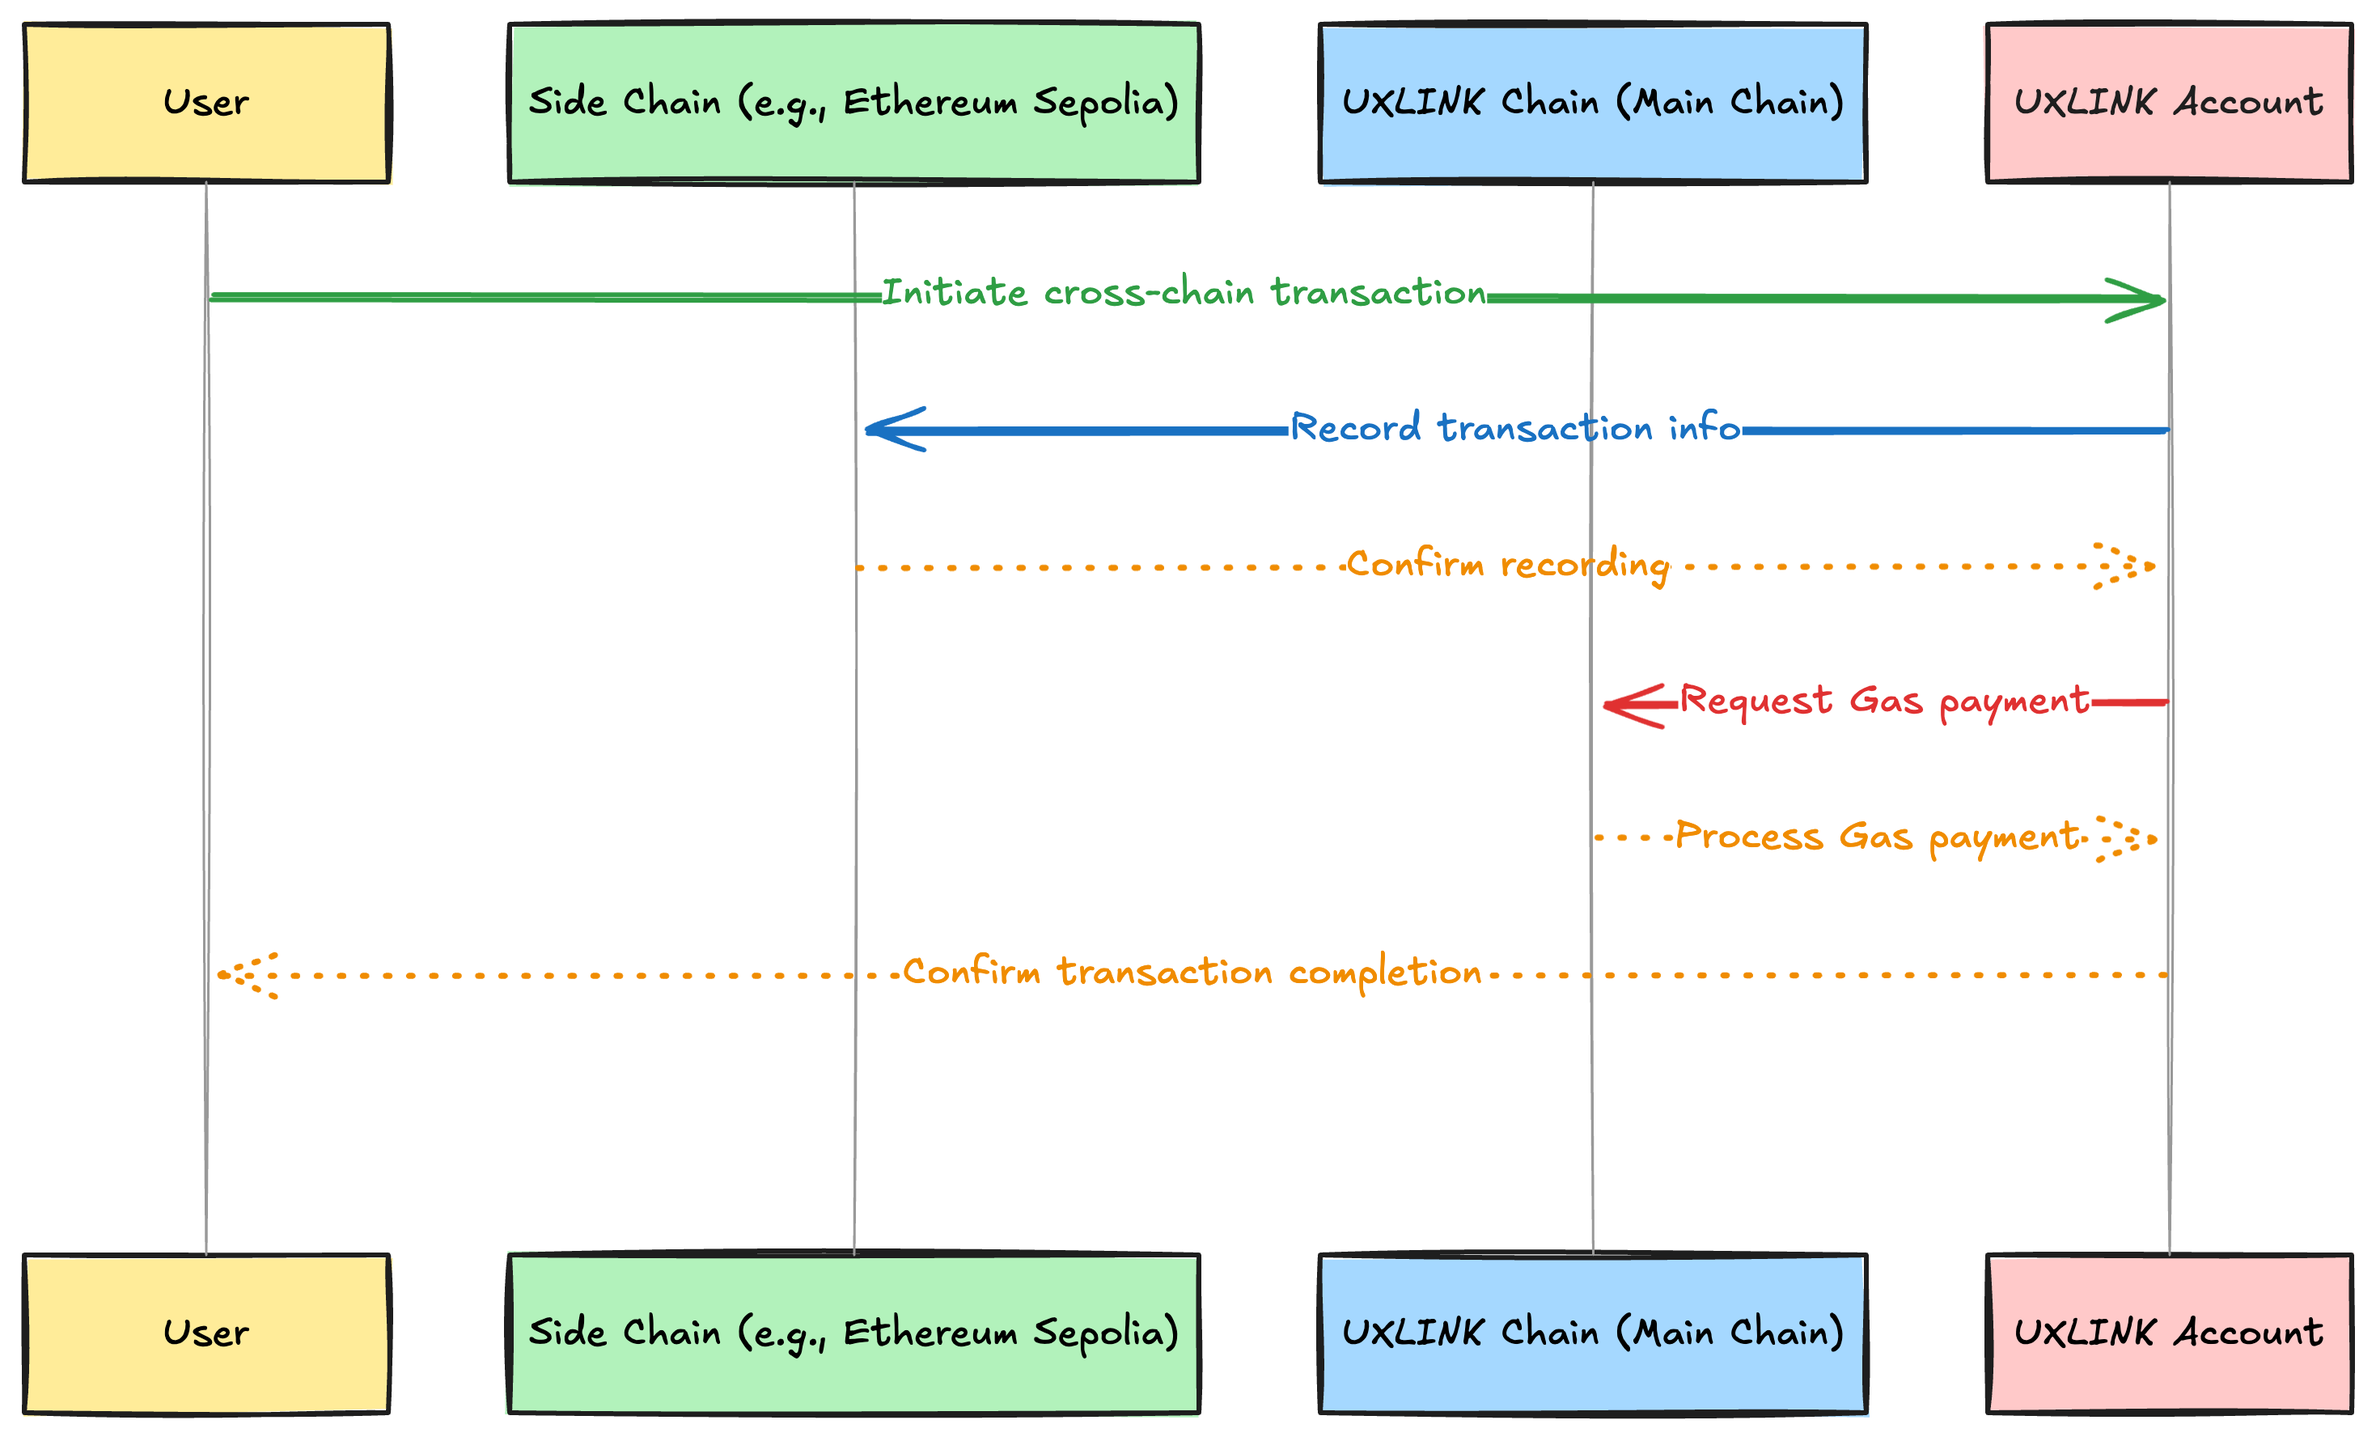
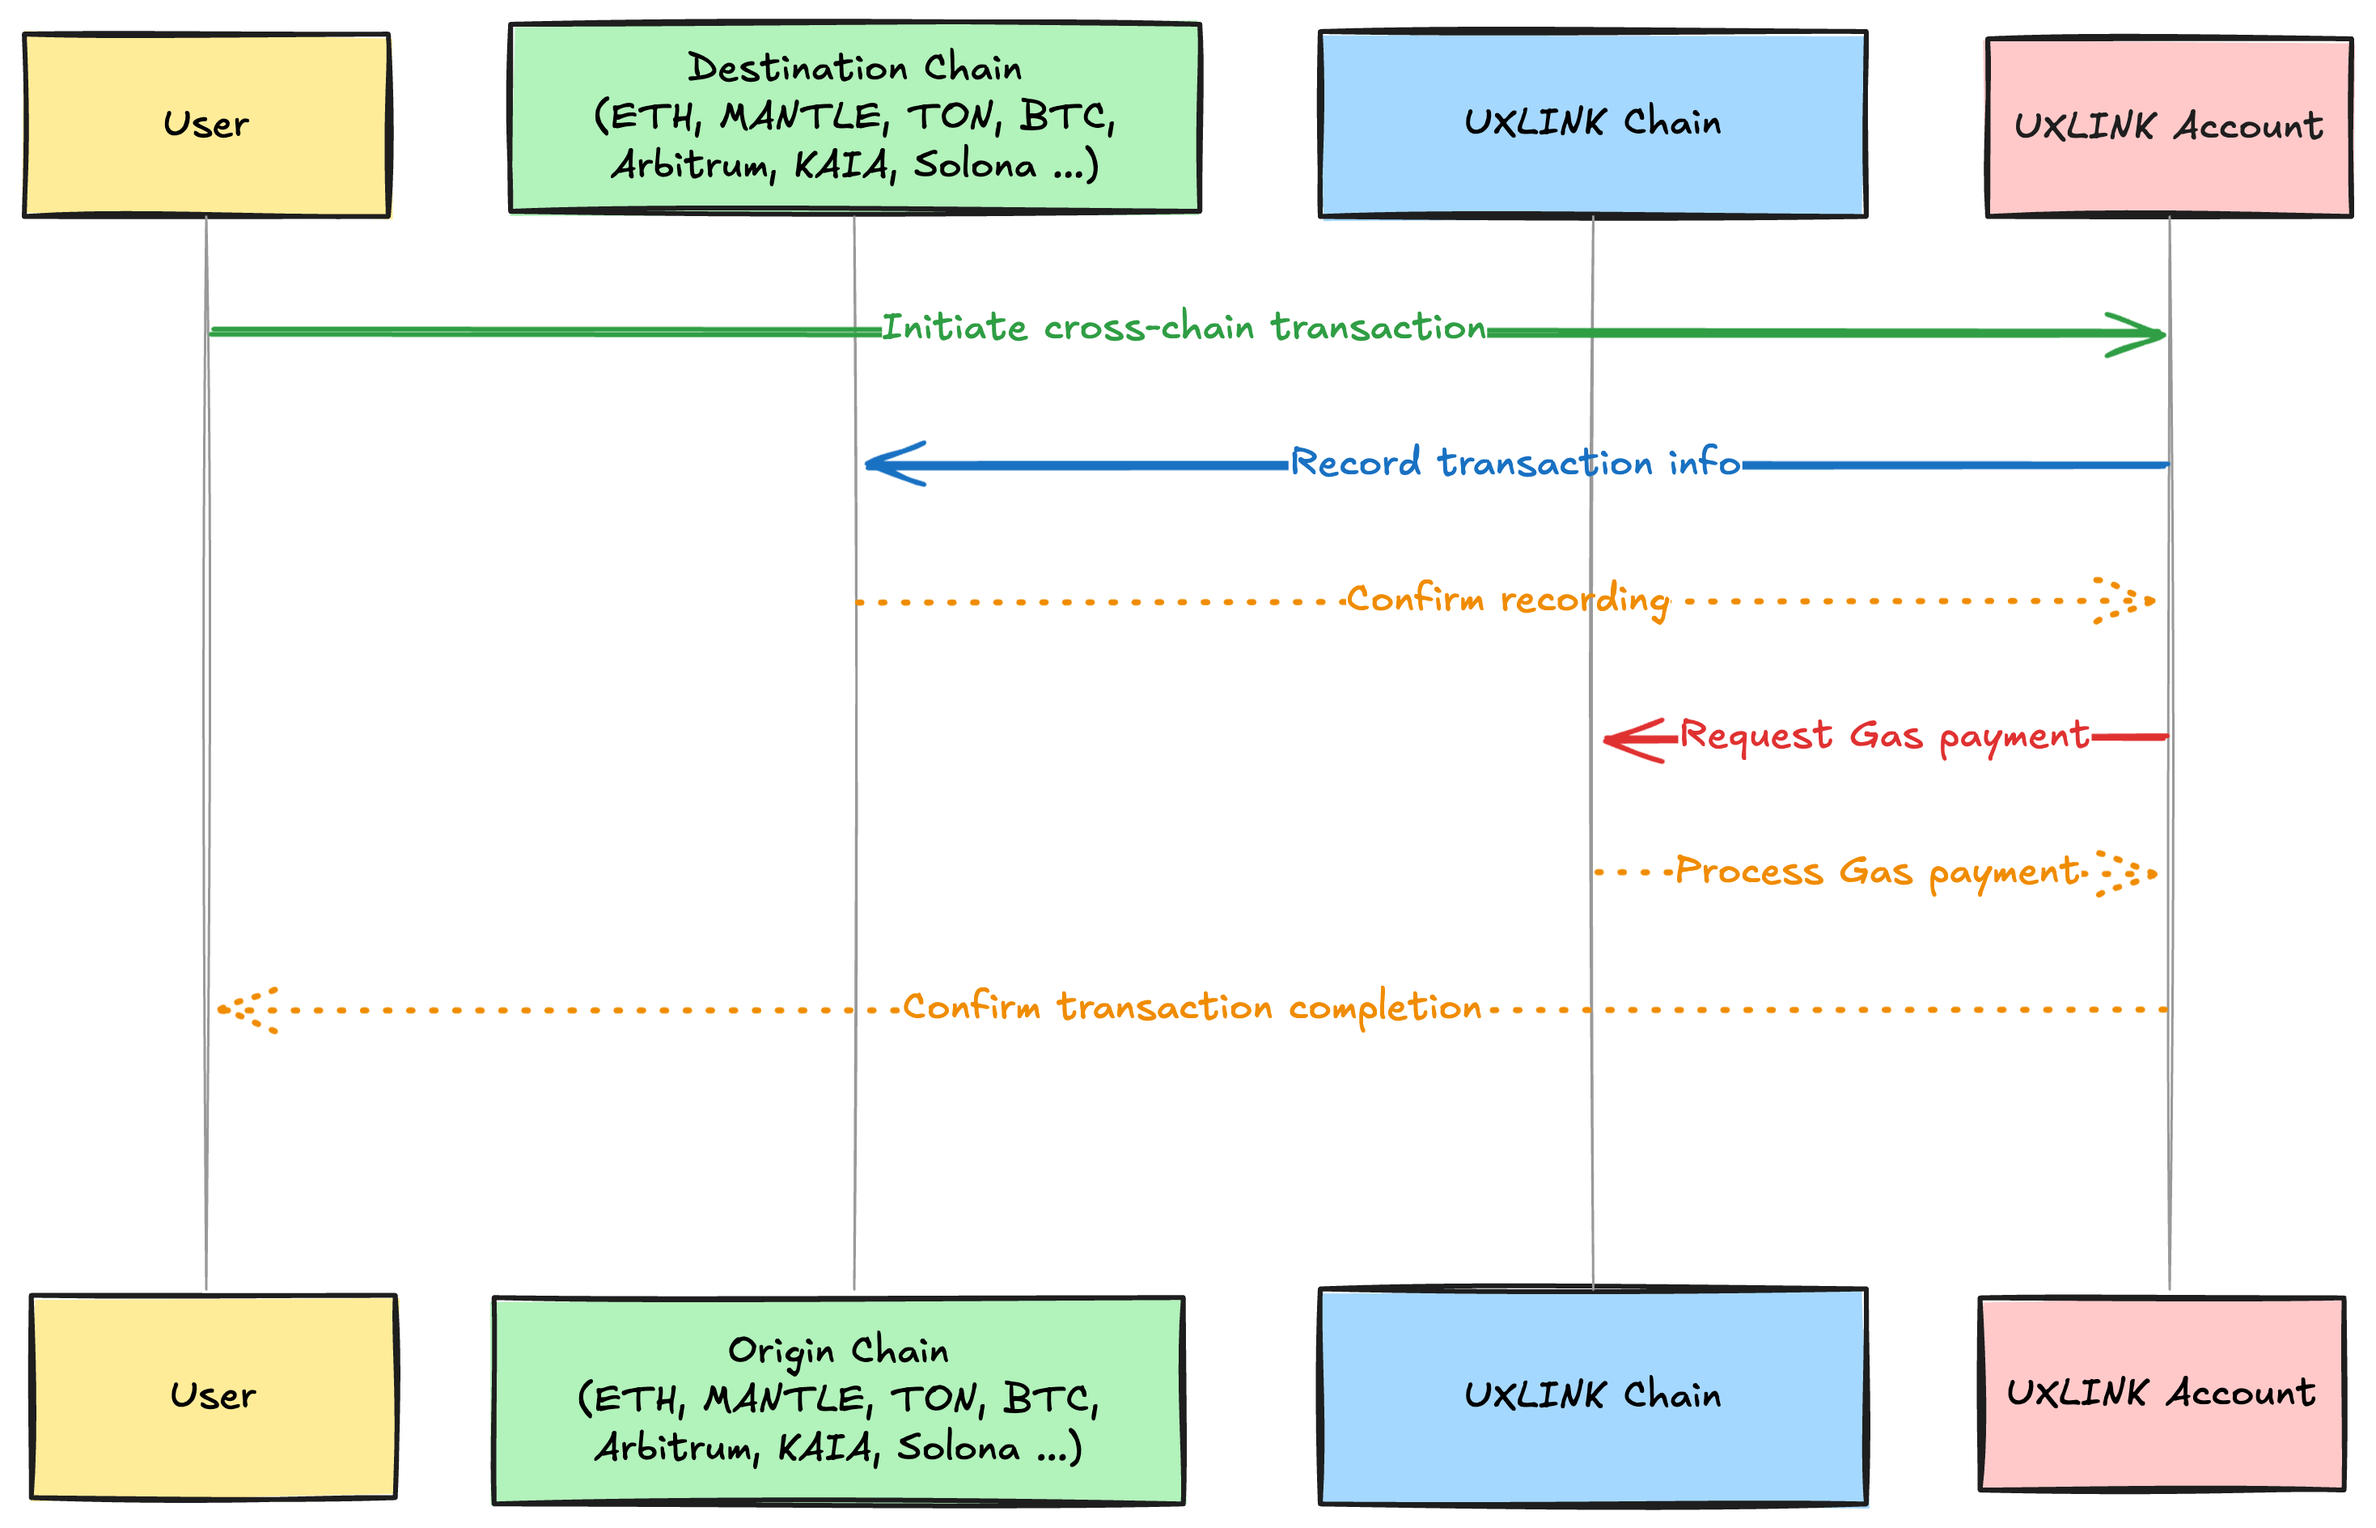
Destination chain

diff --git a/docs/docs/blog/UXLINK-Account-en.md b/docs/docs/blog/UXLINK-Account-en.md
@@ -14,9 +14,9 @@ To further optimize user experience, UXLINK Chain employs UXLINK Token as its na
 
 To achieve flexible and efficient cross-chain transactions, UXLINK Account employs an innovative structure that utilizes side-chain accounting along with main-chain gas payments. The basic process for cross-chain transactions is as follows:
 
-1. **Side-Chain Accounting**: Whenever a user initiates a transaction across different chains, the transaction information is recorded on the corresponding side chain. This design alleviates the burden on the main chain, enhancing the overall system's performance and responsiveness.
+1. **Destination chain Accounting**: Whenever a user initiates a transaction across different chains, the transaction information is recorded on the corresponding side chain. This design alleviates the burden on the main chain, enhancing the overall system's performance and responsiveness.
    
-2. **Main-Chain Gas Payments**: When performing cross-chain operations, the required gas fees are handled by the main chain of UXLINK. This approach ensures the transparency and traceability of transactions, relieving users of the need to constantly worry about varying gas fees across different chains, thereby significantly improving operational convenience.
+2. **UXLINK Chain Gas Payments**: When performing cross-chain operations, the required gas fees are handled by the main chain of UXLINK. This approach ensures the transparency and traceability of transactions, relieving users of the need to constantly worry about varying gas fees across different chains, thereby significantly improving operational convenience.
 
 Through these innovative mechanisms, UXLINK Account supports cross-chain sign-in between test chains such as Ethereum Sepolia, Arbitrum Sepolia, and Mantle Sepolia, markedly enhancing user experience.
 
